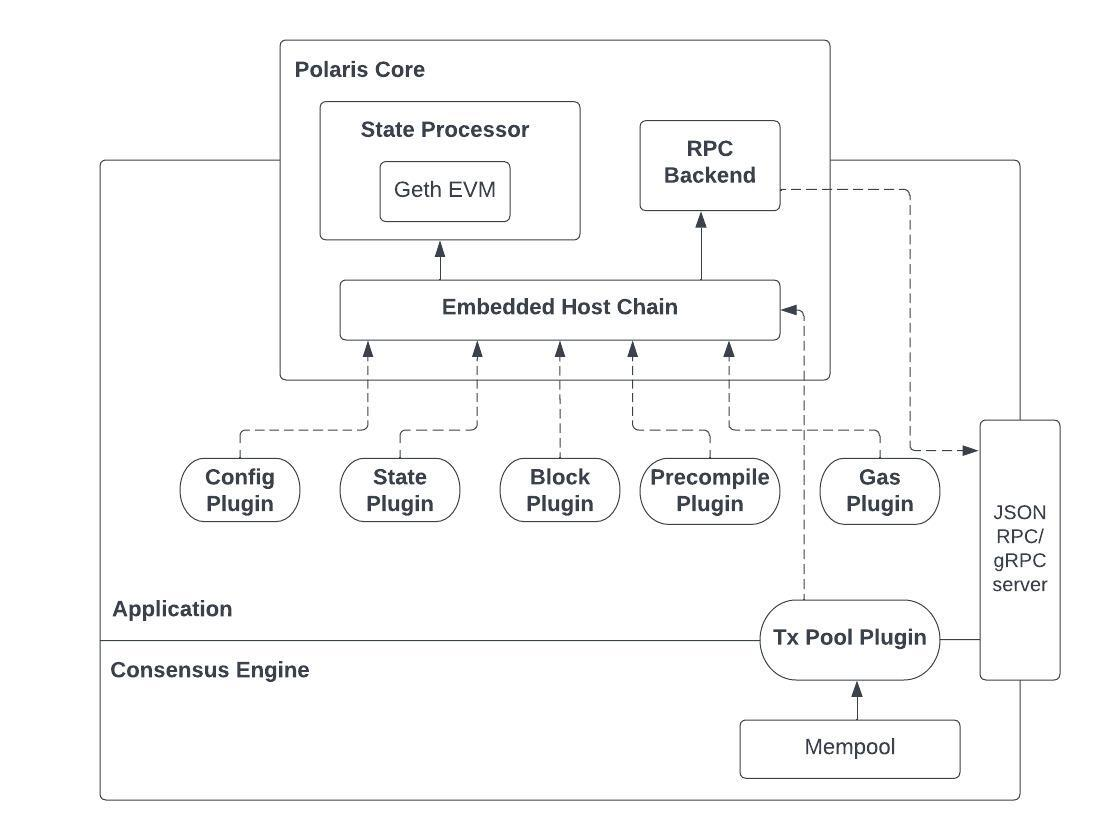
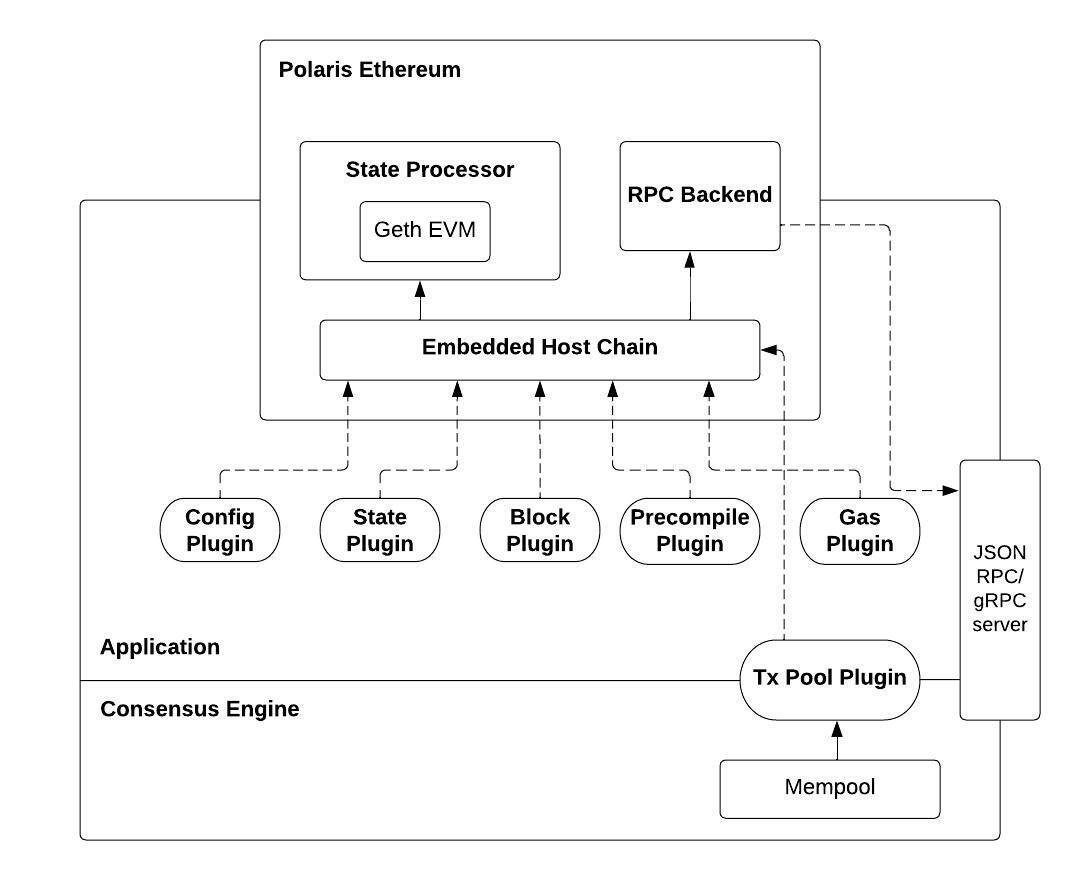
chore: comments, docs, readme (#425)

Changed region(s): [[0.0611, 0.031, 0.9778, 0.9595], [0.1528, 0.5262, 0.275, 0.65], [0.2139, 0.1857, 0.2444, 0.2476]]

diff --git a/pkg/cosmos/x/evm/plugins/precompile/plugin.go b/pkg/cosmos/x/evm/plugins/precompile/plugin.go
@@ -68,10 +68,12 @@ type plugin struct {
 // `NewPlugin` creates and returns a `plugin` with the default kv gas configs.
 func NewPlugin(precompiles []vm.RegistrablePrecompile) Plugin {
 	return &plugin{
-		Registry:             registry.NewMap[common.Address, vm.PrecompileContainer](),
-		precompiles:          precompiles,
-		kvGasConfig:          storetypes.KVGasConfig(),
-		transientKVGasConfig: storetypes.TransientGasConfig(),
+		Registry:    registry.NewMap[common.Address, vm.PrecompileContainer](),
+		precompiles: precompiles,
+		// TODO: Re-enable gas config for precompiles.
+		// https://github.com/berachain/polaris/issues/393
+		kvGasConfig:          storetypes.GasConfig{},
+		transientKVGasConfig: storetypes.GasConfig{},
 		plf:                  log.NewFactory(precompiles),
 	}
 }
@@ -124,11 +126,9 @@ func (p *plugin) Run(
 
 	// run precompile container
 	ret, err := pc.Run(
-		ctx.WithGasMeter(gm),
-		// TODO: Re-enable gas config for precompiles.
-		// https://github.com/berachain/polaris/issues/393
-		// WithKVGasConfig(p.kvGasConfig).
-		// WithTransientKVGasConfig(p.transientKVGasConfig),
+		ctx.WithGasMeter(gm).
+			WithKVGasConfig(p.kvGasConfig).
+			WithTransientKVGasConfig(p.transientKVGasConfig),
 		input,
 		caller,
 		value,

diff --git a/eth/core/chain.go b/eth/core/chain.go
@@ -35,16 +35,13 @@ import (
 // By default we are storing up to 64mb of historical data for each cache.
 const defaultCacheSizeBytes = 1024 * 1024 * 64
 
-// `ChainReaderWriter` is the interface that wraps the basic methods of the EVM chain.
-type ChainReaderWriter interface {
-	ChainWriter
-	ChainReader
-	ChainSubscriber
-	ChainResources
-}
-
-// Compile-time check to ensure that `blockchain` implements the `ChainReaderWriter` interface.
-var _ ChainReaderWriter = (*blockchain)(nil)
+// Compile-time check to ensure that `blockchain` implements the `Chain` api.
+var (
+	_ ChainWriter     = (*blockchain)(nil)
+	_ ChainReader     = (*blockchain)(nil)
+	_ ChainSubscriber = (*blockchain)(nil)
+	_ ChainResources  = (*blockchain)(nil)
+)
 
 // `blockchain` is the canonical, persistent object that operates the Polaris EVM.
 type blockchain struct {

diff --git a/pkg/cosmos/x/evm/plugins/precompile/plugin_test.go b/pkg/cosmos/x/evm/plugins/precompile/plugin_test.go
@@ -66,13 +66,13 @@ var _ = Describe("plugin", func() {
 	})
 
 	It("should plug in custom gas configs", func() {
-		Expect(p.KVGasConfig().DeleteCost).To(Equal(uint64(1000)))
-		Expect(p.TransientKVGasConfig().DeleteCost).To(Equal(uint64(100)))
-
-		p.SetKVGasConfig(storetypes.GasConfig{})
 		Expect(p.KVGasConfig().DeleteCost).To(Equal(uint64(0)))
-		p.SetTransientKVGasConfig(storetypes.GasConfig{})
 		Expect(p.TransientKVGasConfig().DeleteCost).To(Equal(uint64(0)))
+
+		p.SetKVGasConfig(storetypes.KVGasConfig())
+		Expect(p.KVGasConfig().DeleteCost).To(Equal(uint64(1000)))
+		p.SetTransientKVGasConfig(storetypes.TransientGasConfig())
+		Expect(p.TransientKVGasConfig().DeleteCost).To(Equal(uint64(100)))
 	})
 })
 

diff --git a/eth/api/chain.go b/eth/api/chain.go
@@ -24,8 +24,11 @@ import (
 	"pkg.berachain.dev/polaris/eth/core"
 )
 
-// `Chain` defines the methods that the Polaris Ethereum API exposes. This is the only interface
-// that an implementing chain should use.
+// `Chain` defines the methods that the Polaris Ethereum API exposes. These sub-interfaces define
+// the basic methods of a EVM chain.
 type Chain interface {
-	core.ChainReaderWriter
+	core.ChainWriter
+	core.ChainReader
+	core.ChainSubscriber
+	core.ChainResources
 }

diff --git a/pkg/cosmos/store/snapmulti/store.go b/pkg/cosmos/store/snapmulti/store.go
@@ -93,8 +93,8 @@ func (s *store) GetKVStore(key storetypes.StoreKey) storetypes.KVStore {
 
 // `Snapshot` implements `libtypes.Snapshottable`.
 func (s *store) Snapshot() int {
-	var cms mapMultiStore
-	if cms = s.journal.Peek(); cms == nil {
+	cms := s.journal.Peek()
+	if cms == nil {
 		// use root if the journal is empty
 		cms = s.root
 	}

diff --git a/eth/provider.go b/eth/provider.go
@@ -27,6 +27,7 @@ import (
 	"pkg.berachain.dev/polaris/eth/rpc"
 )
 
+// `PolarisProvider` is the only object that an implementing chain should use.
 type PolarisProvider struct {
 	api.Chain
 	rps rpc.Service

diff --git a/eth/core/precompile/README.md b/eth/core/precompile/README.md
@@ -1,0 +1,34 @@
+# Precompiles
+
+Polaris supports the execution of **stateless** and **stateful** precompiled contracts. 
+
+## Stateless Precompiles
+
+Stateless precompiles run completely in the EVM and do not rely on state from the native host chain.
+Go-ethereum provides implementations of several stateless precompiles at hardcoded addresses [here](https://github.com/berachain/go-ethereum/blob/stateful-v1.11.2/core/vm/contracts.go). More stateless
+precompiles can be added by adhering to the `StatelessImpl`, defined in [interfaces.go](https://github.com/berachain/polaris/blob/main/eth/core/precompile/interfaces.go#L48).
+
+If no custom precompiles are added by the host chain, the [default precompile plugin](https://github.com/berachain/polaris/blob/main/eth/core/precompile/default_plugin.go) will execute 
+the stateless precompiles.
+
+## Stateful Precompiles
+
+Stateful Precompiles are run in the host chain's native execution environment. This is enabled via 
+injecting a [Precompile Plugin](https://github.com/berachain/polaris/blob/main/eth/core/precompile/interfaces.go#L33) from the host chain.
+
+Stateful Precompiles can be implemented by adhering to the `StatefulImpl` interface, defined in 
+[interfaces.go](https://github.com/berachain/polaris/blob/main/eth/core/precompile/interfaces.go#L56). Below are the suggested steps to follow (more details in [method.go](https://github.com/berachain/polaris/blob/main/eth/core/precompile/method.go)):
+
+    1) Define a Solidity interface with the methods that you want implemented via a precompile.
+    2) Build a Go precompile contract, which implements the interface's methods.
+        A) This precompile contract should expose the ABI's `Methods`, which can be generated via
+        Go-Ethereum's abi package. These methods are of type `abi.Method`.
+ 	    B) This precompile contract should also expose the `Method`s. A `Method` includes the
+        `executable`, which is the direct implementation of a corresponding ABI method, the
+        `executable`'s `RequiredGas`, and the ABI signature. Do NOT provide the `AbiMethod` as
+        this field will be automatically populated.
+
+Examples of stateful precompiles that run in a Cosmos SDK-based host chain can be found in the
+[precompile](https://github.com/berachain/polaris/tree/main/precompile) directory.
+
+

diff --git a/eth/README.md b/eth/README.md
@@ -1,0 +1,27 @@
+# Polaris Ethereum
+
+Welcome to Polaris Ethereum, a modular framework for injecting a Go-Ethereum (geth) EVM into any 
+underlying consensus layer. This folder's directory structure closely resembles that of geth, as it
+is meant to be a thin wrapper around the existing geth codebase. The following architecture diagram
+shows how Polaris Ethereum integrates into the application level of a host chain.
+
+![polaris_hld (1)](https://user-images.githubusercontent.com/113940816/223547650-0cb7c3ae-ac40-4281-bbf6-849a5b86d6f8.jpeg)
+
+## api
+
+`api` includes the public Chain API that Polaris Ethereum exports.
+ 
+## core
+
+`core` includes the Polaris Core logic that runs the EVM: process blocks, transactions, and state
+transitions. This encapsulates **State Processor** and **Embedded Host Chain** in the architecture
+diagram.
+
+## rpc
+
+`rpc` includes rpc service that can be injected into the host chain's JSON-RPC server. This 
+encapsulates **RPC Backend** in the architecture diagram. 
+
+## [provider.go](https://github.com/berachain/polaris/blob/main/eth/provider.go) 
+
+The `PolarisProvider` can be exported and used by the host chain.
